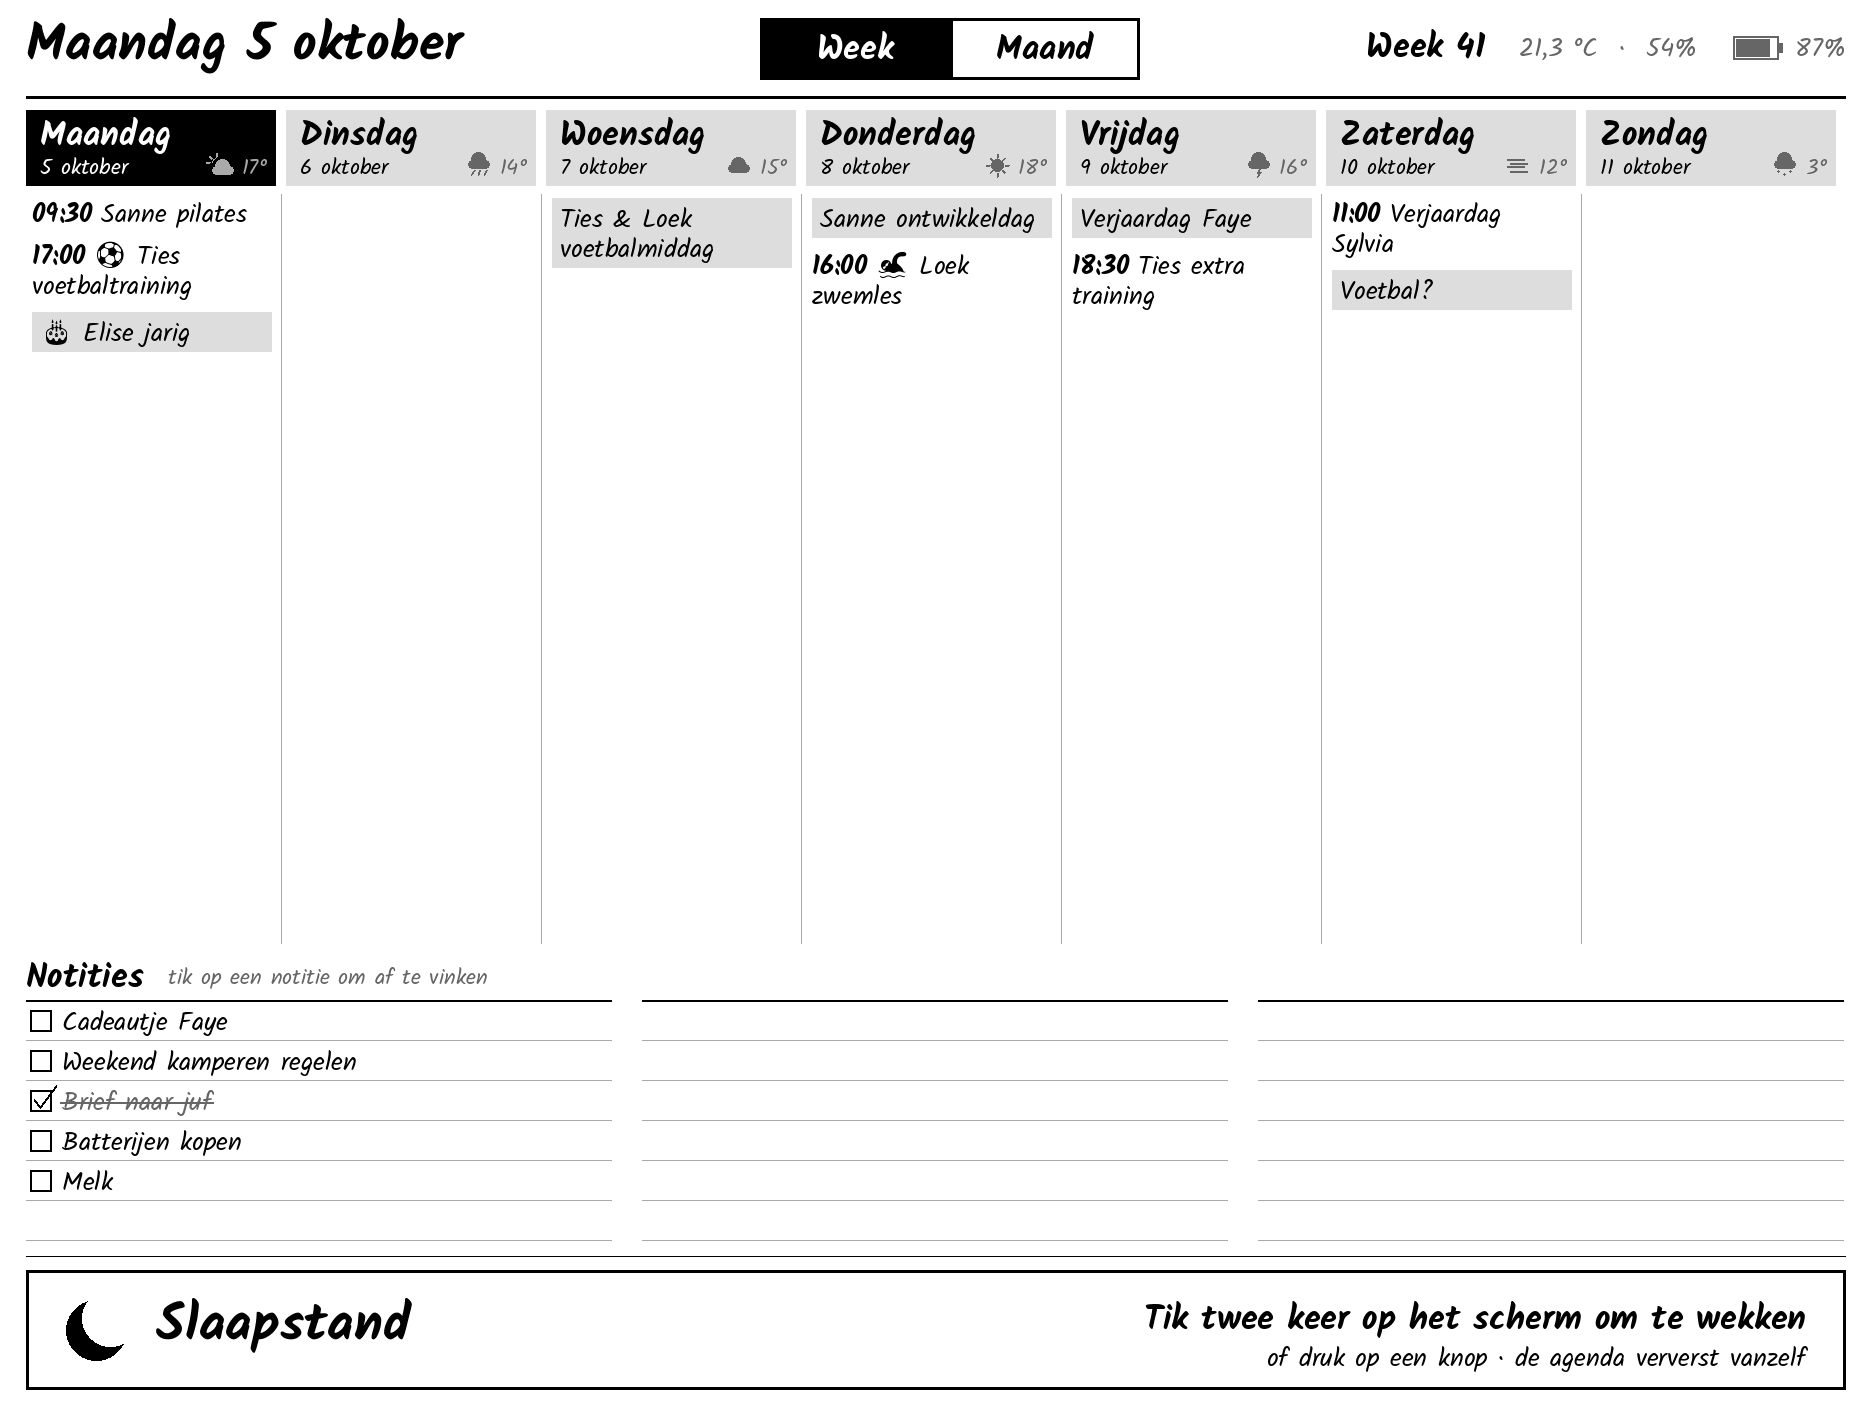
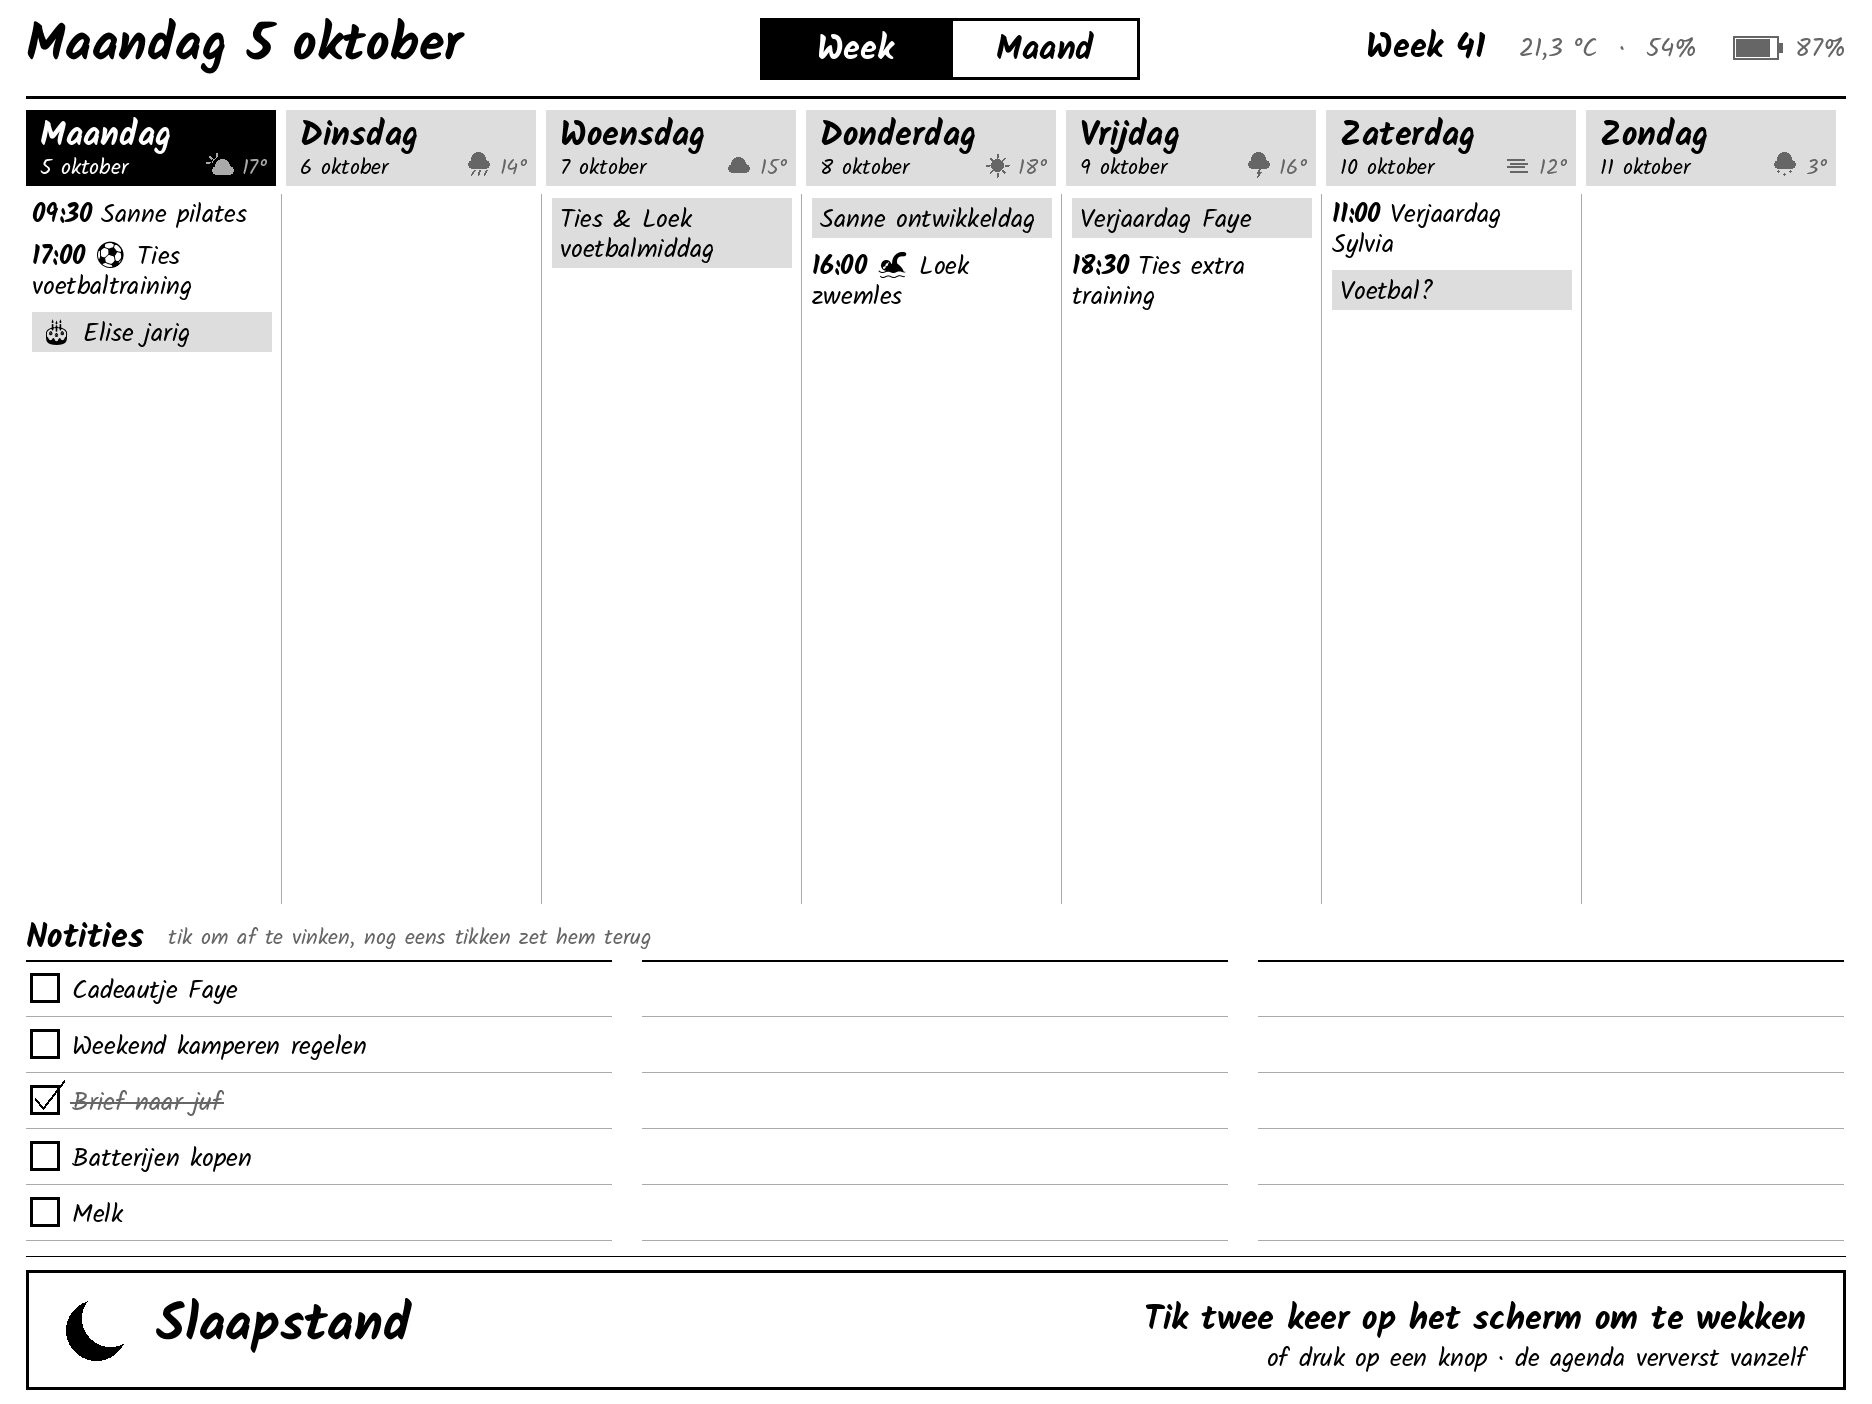
Notes: easier to tap, checked notes stay visible for a while
- Note rows 56 px instead of 40 (about 6 mm), bigger checkbox; a tap in
  the gap between columns counts for the nearest note. 15 notes fit
  instead of 18; the week columns are 40 px shorter.
- A note checked on the screen stays struck through for
  notitie_klaar_tonen minutes (default 60), on its old spot, even after
  HA no longer sends it. Kept in RTC memory, so it survives deep sleep.
  No more full refresh right after checking off.
- Tapping a struck-through note puts it back (needs_action in HA).
- The sleep hash covers the notes as shown, so a quiet round refreshes
  when a checked note expires.

Changed region(s): [[0.0, 0.6432, 0.3408, 0.8882]]

diff --git a/esphome/components/ink/ink_kalender.h b/esphome/components/ink/ink_kalender.h
@@ -61,8 +61,8 @@ constexpr int TAB_X = 760;
 constexpr int WEEK_Y = 110;
 constexpr int WEEK_KOL = BREED / 7;
 constexpr int WEEK_KOP_H = 76;
-constexpr int WEEK_EIND = 944;
-constexpr int NOTITIE_Y = 958;
+constexpr int WEEK_EIND = 904;
+constexpr int NOTITIE_Y = 918;
 constexpr int NOTITIE_EIND = 1240;
 
 // Maandscherm: volledig rooster
@@ -854,7 +854,7 @@ inline void teken_maand(Display &it, const Staat &s, const Fonts &f) {
   }
 }
 
-constexpr int NOTITIE_REGEL = 40;
+constexpr int NOTITIE_REGEL = 56;  // ±6 mm: groot genoeg voor een vinger
 constexpr int NOTITIE_KOLOMMEN = 3;
 constexpr int NOTITIE_TUSSEN = 30;
 constexpr int NOTITIE_TOP = NOTITIE_Y + 42;
@@ -865,10 +865,20 @@ constexpr int NOTITIE_MAX = NOTITIE_PER_KOLOM * NOTITIE_KOLOMMEN;
 inline int notitie_x(int i) { return MARGE + (i / NOTITIE_PER_KOLOM) * (NOTITIE_KOL_B + NOTITIE_TUSSEN); }
 inline int notitie_y(int i) { return NOTITIE_TOP + (i % NOTITIE_PER_KOLOM) * NOTITIE_REGEL; }
 
+// Welke notitieplek bij een aanraking hoort: de rij eronder en de dichtstbijzijnde
+// kolom (ook in de ruimte tussen de kolommen). -1 als het buiten de notities is.
+inline int notitie_op(int x, int y) {
+  if (y < NOTITIE_TOP - 8 || y >= NOTITIE_TOP + NOTITIE_PER_KOLOM * NOTITIE_REGEL || x < MARGE - 10 || x >= B - MARGE + 10)
+    return -1;
+  const int rij = std::max(0, y - NOTITIE_TOP) / NOTITIE_REGEL;
+  const int kol = std::min(NOTITIE_KOLOMMEN - 1, std::max(0, x - MARGE + NOTITIE_TUSSEN / 2) / (NOTITIE_KOL_B + NOTITIE_TUSSEN));
+  return kol * NOTITIE_PER_KOLOM + rij;
+}
+
 inline void teken_notities(Display &it, const Staat &s, const Fonts &f) {
   tekst(it, MARGE, NOTITIE_Y - 8, f.kop, ZWART, WIT, TextAlign::TOP_LEFT, "Notities");
   tekst(it, MARGE + breedte(it, f.kop, "Notities") + 24, NOTITIE_Y + 2, f.klein, GRIJS_DONKER, WIT,
-        TextAlign::TOP_LEFT, "tik op een notitie om af te vinken");
+        TextAlign::TOP_LEFT, "tik om af te vinken, nog eens tikken zet hem terug");
   for (int k = 0; k < NOTITIE_KOLOMMEN; k++) {
     const int x = MARGE + k * (NOTITIE_KOL_B + NOTITIE_TUSSEN);
     it.filled_rectangle(x, NOTITIE_TOP, NOTITIE_KOL_B, 2, ZWART);
@@ -876,7 +886,7 @@ inline void teken_notities(Display &it, const Staat &s, const Fonts &f) {
       it.horizontal_line(x, NOTITIE_TOP + r * NOTITIE_REGEL, NOTITIE_KOL_B, GRIJS);
   }
   if (s.notities.empty()) {
-    tekst(it, MARGE + 8, NOTITIE_TOP + 2, f.normaal, GRIJS_DONKER, WIT, TextAlign::TOP_LEFT, "Geen notities");
+    tekst(it, MARGE + 8, NOTITIE_TOP + 10, f.normaal, GRIJS_DONKER, WIT, TextAlign::TOP_LEFT, "Geen notities");
     return;
   }
   const int aantal = static_cast<int>(s.notities.size());
@@ -886,22 +896,22 @@ inline void teken_notities(Display &it, const Staat &s, const Fonts &f) {
     if (i == NOTITIE_MAX - 1 && aantal > NOTITIE_MAX) {
       char buf[24];
       std::snprintf(buf, sizeof(buf), "+%d meer", aantal - i);
-      tekst(it, x + 36, y + 2, f.normaal, GRIJS_DONKER, WIT, TextAlign::TOP_LEFT, buf);
+      tekst(it, x + 46, y + 10, f.normaal, GRIJS_DONKER, WIT, TextAlign::TOP_LEFT, buf);
       break;
     }
     const Notitie &n = s.notities[i];
     // Vakje om af te vinken
-    kader(it, x + 4, y + 10, 22, 22, 2, n.uid.empty() ? GRIJS : ZWART);
+    kader(it, x + 4, y + 13, 30, 30, 3, n.uid.empty() ? GRIJS : ZWART);
     if (n.afgevinkt) {
       for (int d = -1; d <= 1; d++) {
-        it.line(x + 8, y + 20 + d, x + 14, y + 27 + d, ZWART);
-        it.line(x + 14, y + 27 + d, x + 30, y + 6 + d, ZWART);
+        it.line(x + 9, y + 27 + d, x + 17, y + 36 + d, ZWART);
+        it.line(x + 17, y + 36 + d, x + 38, y + 9 + d, ZWART);
       }
     }
-    const std::string t = afkappen(it, f.normaal, n.tekst, NOTITIE_KOL_B - 44);
-    tekst(it, x + 36, y + 2, f.normaal, n.afgevinkt ? GRIJS_DONKER : ZWART, WIT, TextAlign::TOP_LEFT, t);
+    const std::string t = afkappen(it, f.normaal, n.tekst, NOTITIE_KOL_B - 54);
+    tekst(it, x + 46, y + 10, f.normaal, n.afgevinkt ? GRIJS_DONKER : ZWART, WIT, TextAlign::TOP_LEFT, t);
     if (n.afgevinkt)
-      it.filled_rectangle(x + 34, y + 22, breedte(it, f.normaal, t) + 4, 2, GRIJS_DONKER);
+      it.filled_rectangle(x + 44, y + 30, breedte(it, f.normaal, t) + 4, 2, GRIJS_DONKER);
   }
 }
 
@@ -1101,13 +1111,10 @@ inline Zone raak(const Staat &s, int x, int y) {
     if (binnen(x, y, tab_x(i), 0, TAB_B, KOP_H))
       return static_cast<Zone>(TAB_WEEK + i);
   if (s.scherm == SCHERM_WEEK && !venster_open(s)) {
+    const int i = notitie_op(x, y);
     const int aantal = static_cast<int>(s.notities.size());
-    for (int i = 0; i < aantal && i < NOTITIE_MAX; i++) {
-      if (i == NOTITIE_MAX - 1 && aantal > NOTITIE_MAX)
-        break;  // "+N meer"
-      if (binnen(x, y, notitie_x(i), notitie_y(i), NOTITIE_KOL_B, NOTITIE_REGEL))
-        return s.notities[i].uid.empty() ? GEEN : static_cast<Zone>(NOTITIE0 + i);
-    }
+    if (i >= 0 && i < aantal && !(i == NOTITIE_MAX - 1 && aantal > NOTITIE_MAX))  // niet "+N meer"
+      return s.notities[i].uid.empty() ? GEEN : static_cast<Zone>(NOTITIE0 + i);
   }
   // Iets ruimere vlakken in de balk; vingers zijn geen stylus.
   if (binnen(x, y, MARGE - 10, KNOP_Y - 14, SPREEK_B + 18, KNOP_H + 28))
@@ -1131,7 +1138,8 @@ inline uint32_t inhoud_hash(const Staat &s) {
     h = (h ^ 0xFF) * 16777619u;
   };
   voeg_toe(s.ruw_afspraken);
-  voeg_toe(s.ruw_notities);
+  for (const auto &n : s.notities)  // zoals getoond, met de afgevinkte
+    voeg_toe(n.tekst + (n.afgevinkt ? "|x" : "|"));
   voeg_toe(s.ruw_weer);
   char buf[32];
   const int accu_stap = std::isnan(s.accu) ? -2 : (s.accu <= ACCU_LAAG ? -1 : static_cast<int>(s.accu) / 10);
@@ -1188,10 +1196,97 @@ inline bool neem_weer_over(WeerGeheugen &g, const std::string &nieuw, int vak) {
   return true;
 }
 
+// Op het scherm afgevinkte notities blijven nog even doorgestreept staan, ook
+// als Home Assistant ze niet meer meestuurt. Zo zie je wat je net gedaan hebt
+// en kun je een verkeerde tik terugdraaien. Notities die in de HA-app worden
+// afgevinkt, verdwijnen meteen.
+struct KlaarNotitie {
+  char lijst[48];
+  char uid[48];
+  char tekst[96];
+  int64_t sinds;  // epoch-seconden; 0 = tijd onbekend
+  int16_t plek;   // positie in de lijst toen hij afgevinkt werd
+  bool gebruikt;
+};
+
+struct KlaarGeheugen {
+  KlaarNotitie n[8];
+};
+
+inline void kopieer(char *doel, size_t grootte, const std::string &bron) {
+  std::string s = bron;
+  while (s.size() >= grootte)
+    s.erase(utf8_terug(s, s.size()));  // niet midden in een teken afkappen
+  std::snprintf(doel, grootte, "%s", s.c_str());
+}
+
+inline bool is_notitie(const KlaarNotitie &k, const Notitie &n) {
+  return k.gebruikt && n.lijst == k.lijst && n.uid == k.uid;
+}
+
+inline void onthoud_klaar(KlaarGeheugen &g, const Notitie &n, int plek, int64_t nu) {
+  // Hetzelfde vak als hij er al in staat, anders een leeg vak, anders het oudste.
+  KlaarNotitie *vak = nullptr;
+  for (auto &k : g.n)
+    if (is_notitie(k, n))
+      vak = &k;
+  for (auto &k : g.n)
+    if (!vak && !k.gebruikt)
+      vak = &k;
+  if (!vak) {
+    vak = &g.n[0];
+    for (auto &k : g.n)
+      if (k.sinds < vak->sinds)
+        vak = &k;
+  }
+  kopieer(vak->lijst, sizeof(vak->lijst), n.lijst);
+  kopieer(vak->uid, sizeof(vak->uid), n.uid);
+  kopieer(vak->tekst, sizeof(vak->tekst), n.tekst);
+  vak->sinds = nu;
+  vak->plek = static_cast<int16_t>(plek);
+  vak->gebruikt = true;
+}
+
+inline void vergeet_klaar(KlaarGeheugen &g, const Notitie &n) {
+  for (auto &k : g.n)
+    if (is_notitie(k, n))
+      k.gebruikt = false;
+}
+
+// De notities van Home Assistant plus de afgevinkte die nog `klaar_min`
+// minuten getoond worden, op hun oude plek. Ruimt verlopen notities op.
+inline std::vector<Notitie> met_klaar(std::vector<Notitie> lijst, KlaarGeheugen &g, int64_t nu, int klaar_min) {
+  for (auto &k : g.n)
+    if (k.gebruikt && nu > 0 && k.sinds > 0 && nu - k.sinds >= static_cast<int64_t>(klaar_min) * 60)
+      k.gebruikt = false;
+  std::vector<const KlaarNotitie *> klaar;
+  for (const auto &k : g.n)
+    if (k.gebruikt)
+      klaar.push_back(&k);
+  std::sort(klaar.begin(), klaar.end(), [](const KlaarNotitie *a, const KlaarNotitie *b) { return a->plek < b->plek; });
+  for (const KlaarNotitie *k : klaar) {
+    auto al = std::find_if(lijst.begin(), lijst.end(), [k](const Notitie &n) { return is_notitie(*k, n); });
+    if (al != lijst.end()) {
+      al->afgevinkt = true;  // HA heeft hem (nog) als open
+      continue;
+    }
+    Notitie n{k->lijst, k->uid, k->tekst, true};
+    lijst.insert(lijst.begin() + std::min<size_t>(std::max<int>(k->plek, 0), lijst.size()), n);
+  }
+  return lijst;
+}
+
+inline bool zelfde_notities(const std::vector<Notitie> &a, const std::vector<Notitie> &b) {
+  return std::equal(a.begin(), a.end(), b.begin(), b.end(), [](const Notitie &x, const Notitie &y) {
+    return x.lijst == y.lijst && x.uid == y.uid && x.tekst == y.tekst && x.afgevinkt == y.afgevinkt;
+  });
+}
+
 #ifndef INK_HOST
 // Blijven bewaard tijdens deep sleep (RTC-geheugen), niet na stroomverlies.
 // Gedefinieerd in ink_kalender.cpp: dit bestand komt in elk bronbestand.
 extern WeerGeheugen rtc_weer;
+extern KlaarGeheugen rtc_klaar;
 extern uint32_t rtc_inhoud_hash;
 extern time_t rtc_slaap_begin;
 extern uint8_t rtc_snelle_touch_wekkers;

diff --git a/tools/preview/tests.cpp b/tools/preview/tests.cpp
@@ -93,6 +93,52 @@ int main() {
   assert(neem_weer_over(g, "e", -1));                      // tijd onbekend: overnemen
   assert(neem_weer_over(g, std::string(500, 'x') + "\n", 0) && g.tekst[0] == '\0');  // te lang
 
+  // Afgevinkte notities: blijven even staan op hun plek, daarna weg
+  {
+    KlaarGeheugen g{};
+    const int64_t t0 = 1790000000;
+    auto ha = lees_notities("todo.a|u1|Melk\ntodo.a|u2|Brood\ntodo.a|u3|Kaas\n");
+    onthoud_klaar(g, ha[1], 1, t0);
+    // HA heeft hem nog als open: doorgestreept op dezelfde plek
+    auto l = met_klaar(ha, g, t0 + 5, 60);
+    assert(l.size() == 3 && l[1].uid == "u2" && l[1].afgevinkt && !l[0].afgevinkt);
+    // HA laat hem weg: komt terug op zijn oude plek
+    auto zonder = lees_notities("todo.a|u1|Melk\ntodo.a|u3|Kaas\n");
+    auto l2 = met_klaar(zonder, g, t0 + 60, 60);
+    assert(zelfde_notities(l, l2));
+    // Na 60 minuten weg
+    auto l3 = met_klaar(zonder, g, t0 + 3600, 60);
+    assert(l3.size() == 2 && !g.n[0].gebruikt);
+    // Tijd onbekend: niet laten verlopen
+    onthoud_klaar(g, ha[2], 2, t0);
+    assert(met_klaar(zonder, g, 0, 60).size() == 2 && met_klaar(zonder, g, 0, 60)[1].afgevinkt);
+    // Terugzetten
+    vergeet_klaar(g, ha[2]);
+    assert(!met_klaar(zonder, g, t0, 60)[1].afgevinkt);
+    // Plek voorbij het einde: achteraan; vol geheugen: oudste eruit
+    onthoud_klaar(g, ha[2], 9, t0);
+    assert(met_klaar({}, g, t0, 60).size() == 1);
+    for (int i = 0; i < 9; i++) {
+      Notitie n{"todo.a", "x" + std::to_string(i), "t", false};
+      onthoud_klaar(g, n, 0, t0 + 10 + i);
+    }
+    assert(met_klaar({}, g, t0 + 20, 60).size() == 8);
+    // Lange tekst: netjes afgekapt, niet midden in een UTF-8-teken
+    Notitie lang{"todo.a", "l", std::string(94, 'a') + "é", false};
+    onthoud_klaar(g, lang, 0, t0 + 30);
+    for (const auto &k : g.n)
+      if (std::string(k.uid) == "l")
+        assert(std::string(k.tekst) == std::string(94, 'a'));
+  }
+
+  // Aanraken van notities: rij eronder, dichtstbijzijnde kolom
+  assert(notitie_op(MARGE + 20, NOTITIE_TOP + 5) == 0);
+  assert(notitie_op(MARGE + 20, NOTITIE_TOP + NOTITIE_REGEL + 5) == 1);
+  assert(notitie_op(MARGE + NOTITIE_KOL_B + 20, NOTITIE_TOP + 5) == NOTITIE_PER_KOLOM);  // tussenruimte, rechterhelft
+  assert(notitie_op(MARGE + NOTITIE_KOL_B + 5, NOTITIE_TOP + 5) == 0);                  // tussenruimte, linkerhelft
+  assert(notitie_op(MARGE + 20, NOTITIE_TOP - 30) == -1);
+  assert(notitie_op(MARGE + 20, NOTITIE_TOP + NOTITIE_PER_KOLOM * NOTITIE_REGEL) == -1);
+
   // Spaarstand: slaapduur (elke 30 min, 's nachts 23-6 door tot 6:00)
   assert(slaapduur_ms(14, 0, 30, 23, 6) == 30u * 60 * 1000);
   assert(slaapduur_ms(23, 0, 30, 23, 6) == 7u * 60 * 60 * 1000);
@@ -110,6 +156,11 @@ int main() {
   assert(inhoud_hash(a) != inhoud_hash(b));
   b.vandaag = a.vandaag;
   b.ruw_weer = "2026-10-05|rainy|14|9";
+  assert(inhoud_hash(a) != inhoud_hash(b));
+  b.ruw_weer = a.ruw_weer;
+  a.notities = b.notities = lees_notities("todo.a|u1|Melk");
+  assert(inhoud_hash(a) == inhoud_hash(b));
+  b.notities[0].afgevinkt = true;
   assert(inhoud_hash(a) != inhoud_hash(b));
 
   // UTF-8

diff --git a/esphome/components/ink/ink_kalender.cpp b/esphome/components/ink/ink_kalender.cpp
@@ -8,6 +8,7 @@
 namespace ink {
 
 RTC_DATA_ATTR WeerGeheugen rtc_weer = {};
+RTC_DATA_ATTR KlaarGeheugen rtc_klaar = {};
 RTC_DATA_ATTR uint32_t rtc_inhoud_hash = 0;
 RTC_DATA_ATTR time_t rtc_slaap_begin = 0;
 RTC_DATA_ATTR uint8_t rtc_snelle_touch_wekkers = 0;

diff --git a/README.md b/README.md
@@ -19,8 +19,9 @@ Vervangt het whiteboard op de koelkast door een Seeed reTerminal E1003
   "zaterdag half drie verjaardag oma" (afspraak) of "notitie cadeautje voor Faye" (notitie).
   Het scherm laat zien wat het begrepen heeft; pas na **Opslaan** komt het in de kalender
   of op de takenlijst.
-- **Notities afvinken**: tik op een notitie; die wordt meteen doorgestreept en in HA
-  afgevinkt. Per ongeluk? In de HA-app staat hij onder "Voltooid" en kun je hem terugzetten.
+- **Notities afvinken**: tik op een notitie (de hele regel telt); die wordt meteen
+  doorgestreept en in HA afgevinkt. Hij blijft nog een uur doorgestreept staan
+  (`notitie_klaar_tonen`); per ongeluk? Tik er nog eens op en hij staat weer open.
 
 | Week | Maand |
 |---|---|
@@ -161,7 +162,7 @@ verversingen per dag.
 | **Week / Maand** (tabs bovenin) | Wisselen van scherm |
 | **Inspreken** (of de groene knop) | Tik, spreek, wacht. Tik nog een keer om te stoppen. |
 | **Opslaan / Annuleer** | Na het inspreken. Zonder keuze sluit het venster na 3 minuten. |
-| **Notitie aantikken** | Afvinken |
+| **Notitie aantikken** | Afvinken; een doorgestreepte nog eens aantikken zet hem terug |
 | **HA-knoppen** | Zetten de entiteit aan of uit; zwart betekent aan. |
 | Rechter witte knop | Scherm volledig verversen |
 | Linker witte knop | Wisselen tussen week en maand |
